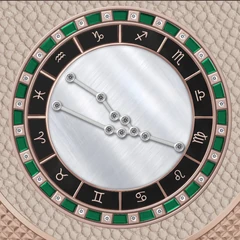
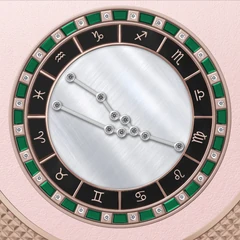
Sign looks rebuilt with new materials (python, forged carbon, white croc, rose calf); preview swatches

diff --git a/zodiac-duo.js b/zodiac-duo.js
@@ -24,7 +24,7 @@
 
   var SCRIPT_SRC = (document.currentScript && document.currentScript.src) || "";
   var ASSETS = CFG.assets || SCRIPT_SRC.replace(/[^/]*$/, "") + "assets";
-  var AV = "?v=m26"; // версия ассетов (медальоны v2) — сброс кэша слоёв и свотчей
+  var AV = "?v=m27"; // версия ассетов (медальоны v2) — сброс кэша слоёв и свотчей
   var M = window.ZD_MANIFEST;
   // Медальон в конструкторе чуть меньше слоя PSD (масштаб от центра); общий манифест не трогаем — лендинг видит исходный размер
   var MEDAL_SCALE = 0.9;
@@ -220,30 +220,30 @@
   // Сборки знаков: по одной на знак, палитра — от стихии, сочетания — по правилам цветового круга.
   var ELEM_TONE = { fire: L("Огонь", "Fire"), earth: L("Земля", "Earth"), air: L("Воздух", "Air"), water: L("Вода", "Water") };
   var PRESETS = [
-    { id: "aries", name: L("Пламя", "Flame"), el: "fire", harmony: L("Аналоговая тёплая гамма: красный и янтарь в жёлтом золоте, рубины — искры пламени.", "Analogous warm palette: red and amber in yellow gold, rubies as sparks."),
-      s: { frame: "gold", medal: "gold", medalOn: 1, plate: "croc", plateColor: "red", ring: "gold", decor: "ruby", enamel: "#E8B04A", core: "red", panel: "solid", panelFrame: "gold", panelFill: "enamel", panelEnamel: "#5B2A86", panelTex: 2, panelMetal: "gold", base: "starwhite" } },
-    { id: "taurus", name: L("Сад Венеры", "Garden of Venus"), el: "earth", harmony: L("Комплементарная пара: розовое золото и изумруд — тёплое против прохладного.", "Complementary pair: rose gold against emerald — warm against cool."),
-      s: { frame: "rose", medal: "rose", medalOn: 1, plate: "calf", plateColor: "beige", ring: "rose", decor: "white", enamel: "#0D5E3C", core: "white", panel: "solid", panelFrame: "rose", panelFill: "meteorite", panelEnamel: null, panelTex: 1, panelMetal: "rose", base: "starwhite" } },
-    { id: "gemini", name: L("Двойной свет", "Twin light"), el: "air", harmony: L("Светлая гамма: серебро, белый и дымчато-голубой; чёрные бриллианты — дуальность знака.", "Light palette: silver, white and misty blue; black diamonds for the sign's duality."),
-      s: { frame: "silver", medal: "silver", medalOn: 1, plate: "calf", plateColor: "white", ring: "silver", decor: "black", enamel: "#D2DEEF", core: "white", panel: "clear", panelFrame: "silver", panelFill: "enamel", panelEnamel: "#D6E1F0", panelTex: 1, panelMetal: "silver", base: "starwhite" } },
-    { id: "cancer", name: L("Лунный прилив", "Lunar tide"), el: "water", harmony: L("Контраст глубокого синего и бордо под лунным серебром, перламутр в центре.", "Deep blue against bordeaux under lunar silver, with pearl at the centre."),
-      s: { frame: "silver", medal: "silver", medalOn: 1, plate: "croc", plateColor: "burgundy", ring: "silver", decor: "white", enamel: "#1D3154", core: "white", panel: "clear", panelFrame: "silver", panelFill: "enamel", panelEnamel: "#DBDBDB", panelTex: 1, panelMetal: "silver", base: "starwhite" } },
-    { id: "leo", name: L("Солнце", "Sun"), el: "fire", harmony: L("Тёплая гамма: золото, бургундия и красный на чёрном — солнечный диск.", "Warm palette: gold, burgundy and red on black — the solar disc."),
-      s: { frame: "gold", medal: "gold", medalOn: 1, plate: "croc", plateColor: "black", ring: "gold", decor: "white", enamel: null, core: "red", panel: "solid", panelFrame: "gold", panelFill: "meteorite", panelEnamel: null, panelTex: 2, panelMetal: "gold", base: "nightsky" } },
-    { id: "virgo", name: L("Жатва", "Harvest"), el: "earth", harmony: L("Аналоговая земляная гамма: шалфей, слоновая кость, беж и золото.", "Analogous earth palette: sage, ivory, beige and gold."),
-      s: { frame: "gold", medal: "gold", medalOn: 1, plate: "calf", plateColor: "beige", ring: "gold", decor: "white", enamel: "#7A8B5A", core: "white", panel: "clear", panelFrame: "gold", panelFill: "enamel", panelEnamel: "#EAE2CF", panelTex: 1, panelMetal: "gold", base: "starwhite" } },
-    { id: "libra", name: L("Равновесие", "Balance"), el: "air", harmony: L("Пастельная комплементарная пара: пудрово-розовый и небесно-голубой в равных долях.", "Pastel complementary pair: powder pink and sky blue in equal measure."),
+    { id: "aries", name: L("Пламя", "Flame"), el: "fire", harmony: L("Аналоговая тёплая гамма: красный питон, янтарная эмаль и рубины в жёлтом золоте — огонь от углей до искры.", "Analogous warm palette: red python, amber enamel and rubies in yellow gold."),
+      s: { frame: "gold", medal: "gold", medalOn: 1, plate: "python", plateColor: "red", ring: "gold", decor: "ruby", enamel: "#E8B04A", core: "red", panel: "solid", panelFrame: "gold", panelFill: "meteorite", panelEnamel: null, panelTex: 1, panelMetal: "gold", base: "starwhite" } },
+    { id: "taurus", name: L("Сад Венеры", "Garden of Venus"), el: "earth", harmony: L("Комплементарная пара: пудрово-розовая кожа и розовое золото против изумрудной эмали.", "Complementary pair: powder-pink leather and rose gold against emerald enamel."),
+      s: { frame: "rose", medal: "rose", medalOn: 1, plate: "calf", plateColor: "pink", ring: "rose", decor: "white", enamel: "#0D5E3C", core: "white", panel: "solid", panelFrame: "rose", panelFill: "meteorite", panelEnamel: null, panelTex: 1, panelMetal: "rose", base: "starwhite" } },
+    { id: "gemini", name: L("Двойной свет", "Twin light"), el: "air", harmony: L("Комплементарная пара жёлтый — синий на белом крокодиле; два металла и чёрно-белые камни — дуальность знака.", "Complementary yellow and blue on white crocodile; two metals and black-and-white stones for duality."),
+      s: { frame: "silver", medal: "gold", medalOn: 1, plate: "croc", plateColor: "white", ring: "silver", decor: "black", enamel: "#D9B84A", core: "bluesky", panel: "clear", panelFrame: "silver", panelFill: "enamel", panelEnamel: "#4F7FBF", panelTex: 1, panelMetal: "silver", base: "starwhite" } },
+    { id: "cancer", name: L("Лунный прилив", "Lunar tide"), el: "water", harmony: L("Аналоговая гамма: сапфир и бирюза на белой коже под лунным серебром.", "Analogous palette: sapphire and turquoise on white leather under lunar silver."),
+      s: { frame: "silver", medal: "silver", medalOn: 1, plate: "calf", plateColor: "white", ring: "silver", decor: "white", enamel: "#123E8C", core: "white", panel: "clear", panelFrame: "silver", panelFill: "enamel", panelEnamel: "#14808C", panelTex: 1, panelMetal: "silver", base: "starwhite" } },
+    { id: "leo", name: L("Солнце", "Sun"), el: "fire", harmony: L("Тёплая гамма на чёрном: золото и оранжевая эмаль на кованом карбоне — солнечный диск.", "Warm palette on black: gold and orange enamel on forged carbon — the solar disc."),
+      s: { frame: "gold", medal: "gold", medalOn: 1, plate: "carbon", plateColor: "black", ring: "gold", decor: "white", enamel: "#E07B1A", core: "red", panel: "solid", panelFrame: "gold", panelFill: "meteorite", panelEnamel: null, panelTex: 2, panelMetal: "gold", base: "nightsky" } },
+    { id: "virgo", name: L("Жатва", "Harvest"), el: "earth", harmony: L("Аналоговая земляная гамма: натуральный питон, шалфей и слоновая кость в жёлтом золоте.", "Analogous earth palette: natural python, sage and ivory in yellow gold."),
+      s: { frame: "gold", medal: "gold", medalOn: 1, plate: "python", plateColor: "natural", ring: "gold", decor: "white", enamel: "#7A8B5A", core: "white", panel: "clear", panelFrame: "gold", panelFill: "enamel", panelEnamel: "#EAE2CF", panelTex: 1, panelMetal: "gold", base: "starwhite" } },
+    { id: "libra", name: L("Равновесие", "Balance"), el: "air", harmony: L("Пастельная комплементарная пара: пудрово-розовая эмаль и небесно-голубая кожа в равных долях.", "Pastel complementary pair: powder-pink enamel and sky-blue leather in equal measure."),
       s: { frame: "rose", medal: "rose", medalOn: 1, plate: "calf", plateColor: "paleblue", ring: "rose", decor: "white", enamel: "#C98BA0", core: "white", panel: "clear", panelFrame: "rose", panelFill: "enamel", panelEnamel: "#9FC3E0", panelTex: 1, panelMetal: "rose", base: "starwhite" } },
-    { id: "scorpio", name: L("Глубина", "Depth"), el: "water", harmony: L("Комплементарная пара: бордо и глубокая морская бирюза в чёрном титане.", "Complementary pair: bordeaux and deep sea teal in black titanium."),
-      s: { frame: "black", medal: "black", medalOn: 1, plate: "croc", plateColor: "burgundy", ring: "black", decor: "metal", enamel: "#0F4C4A", core: "blacksky", panel: "clear", panelFrame: "black", panelFill: "meteorite", panelEnamel: null, panelTex: 1, panelMetal: "black", base: "nightsky" } },
-    { id: "sagittarius", name: L("Стрела", "Arrow"), el: "fire", harmony: L("Бордо, оникс и розовое золото — сдержанный огонь в движении.", "Bordeaux, onyx and rose gold — restrained fire in motion."),
-      s: { frame: "rose", medal: "rose", medalOn: 1, plate: "croc", plateColor: "burgundy", ring: "rose", decor: "white", enamel: "#141414", core: "white", panel: "clear", panelFrame: "rose", panelFill: "meteorite", panelEnamel: null, panelTex: 1, panelMetal: "rose", base: "starwhite" } },
-    { id: "capricorn", name: L("Вершина", "Summit"), el: "earth", harmony: L("Земляная гамма: умбра и беж в чёрном титане — строгость вершины.", "Earth palette: umber and beige in black titanium — the rigour of the summit."),
-      s: { frame: "black", medal: "black", medalOn: 1, plate: "calf", plateColor: "beige", ring: "black", decor: "metal", enamel: "#6B4A2E", core: "blacksky", panel: "solid", panelFrame: "black", panelFill: "meteorite", panelEnamel: null, panelTex: 2, panelMetal: "black", base: "nightsky" } },
-    { id: "aquarius", name: L("Ток", "Current"), el: "air", harmony: L("Расщеплённая комплементарность: бирюза и тёмно-синий, рубины — точечный тёплый акцент.", "Split complementary: turquoise and navy, with rubies as a warm accent."),
-      s: { frame: "silver", medal: "silver", medalOn: 1, plate: "calf", plateColor: "navy", ring: "silver", decor: "ruby", enamel: "#14808C", core: "bluesky", panel: "solid", panelFrame: "silver", panelFill: "meteorite", panelEnamel: null, panelTex: 1, panelMetal: "silver", base: "nightsky" } },
-    { id: "pisces", name: L("Океан", "Ocean"), el: "water", harmony: L("Аналоговая гамма: глубокий фиолетовый и тёмно-синий — толща воды.", "Analogous palette: deep violet and navy — the depth of the water."),
-      s: { frame: "silver", medal: "silver", medalOn: 1, plate: "croc", plateColor: "navy", ring: "silver", decor: "white", enamel: "#3D1C59", core: "bluesky", panel: "solid", panelFrame: "silver", panelFill: "enamel", panelEnamel: "#1A263C", panelTex: 2, panelMetal: "silver", base: "nightsky" } }
+    { id: "scorpio", name: L("Глубина", "Depth"), el: "water", harmony: L("Аналоговая тёмная гамма: фиолетовый питон и глубокая морская бирюза в чёрном титане.", "Analogous dark palette: violet python and deep sea teal in black titanium."),
+      s: { frame: "black", medal: "black", medalOn: 1, plate: "python", plateColor: "violet", ring: "black", decor: "metal", enamel: "#0F4C4A", core: "blacksky", panel: "clear", panelFrame: "black", panelFill: "meteorite", panelEnamel: null, panelTex: 1, panelMetal: "black", base: "nightsky" } },
+    { id: "sagittarius", name: L("Стрела", "Arrow"), el: "fire", harmony: L("Аналоговая гамма: бордо, терракота и розовое золото — огонь в движении.", "Analogous palette: bordeaux, terracotta and rose gold — fire in motion."),
+      s: { frame: "rose", medal: "rose", medalOn: 1, plate: "croc", plateColor: "burgundy", ring: "rose", decor: "white", enamel: "#C8461E", core: "white", panel: "clear", panelFrame: "rose", panelFill: "meteorite", panelEnamel: null, panelTex: 1, panelMetal: "rose", base: "starwhite" } },
+    { id: "capricorn", name: L("Вершина", "Summit"), el: "earth", harmony: L("Строгая земляная гамма: кованый карбон и умбра в чёрном титане, золото — свет на вершине.", "Severe earth palette: forged carbon and umber in black titanium, with gold as light on the summit."),
+      s: { frame: "black", medal: "gold", medalOn: 1, plate: "carbon", plateColor: "black", ring: "gold", decor: "black", enamel: "#6B4A2E", core: "blacksky", panel: "solid", panelFrame: "black", panelFill: "meteorite", panelEnamel: null, panelTex: 2, panelMetal: "black", base: "nightsky" } },
+    { id: "aquarius", name: L("Ток", "Current"), el: "air", harmony: L("Расщеплённая комплементарность: голубой питон и бирюза, рубины — точечный тёплый акцент.", "Split complementary: sky-blue python and turquoise, with rubies as a warm accent."),
+      s: { frame: "silver", medal: "silver", medalOn: 1, plate: "python", plateColor: "blue", ring: "silver", decor: "ruby", enamel: "#14808C", core: "bluesky", panel: "solid", panelFrame: "silver", panelFill: "meteorite", panelEnamel: null, panelTex: 1, panelMetal: "silver", base: "nightsky" } },
+    { id: "pisces", name: L("Океан", "Ocean"), el: "water", harmony: L("Аналоговая гамма: аметист, тёмно-синий крокодил и морская волна — переливы глубины.", "Analogous palette: amethyst, navy crocodile and sea green — the shimmer of the deep."),
+      s: { frame: "silver", medal: "silver", medalOn: 1, plate: "croc", plateColor: "navy", ring: "silver", decor: "white", enamel: "#5B2A86", core: "bluesky", panel: "clear", panelFrame: "silver", panelFill: "enamel", panelEnamel: "#14808C", panelTex: 1, panelMetal: "silver", base: "nightsky" } }
   ];
 
   var STEP_IDS = ["sign", "base", "frame", "plate", "ring", "medal", "panel", "summary"];

diff --git a/index.html b/index.html
@@ -249,7 +249,7 @@
     };
   </script>
   <script src="assets/manifest.js?v=20261011r"></script>
-  <script src="zodiac-duo.js?v=20261015lt5"></script>
+  <script src="zodiac-duo.js?v=20261015ps2"></script>
   <script src="landing/landing.js?v=20"></script>
   <script type="importmap">
     { "imports": {

diff --git a/demo.html b/demo.html
@@ -40,6 +40,6 @@
     };
   </script>
   <script src="assets/manifest.js?v=20261011r"></script>
-  <script src="zodiac-duo.js?v=20261015lt5"></script>
+  <script src="zodiac-duo.js?v=20261015ps2"></script>
 </body>
 </html>
